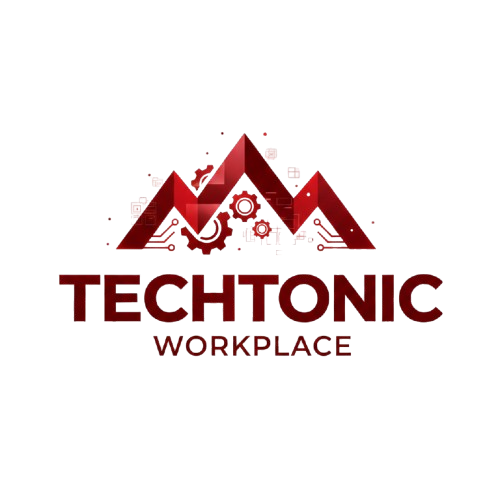
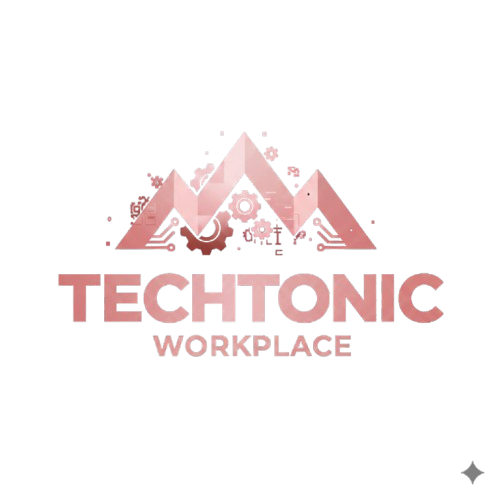
adding rose theme in the project

Changed region(s): [[0.12, 0.54, 0.9, 0.72], [0.21, 0.27, 0.75, 0.51], [0.93, 0.93, 0.96, 0.96]]

diff --git a/src/styles/globals.css b/src/styles/globals.css
@@ -57,31 +57,31 @@
   --card-foreground: oklch(0.145 0 0);
   --popover: oklch(1 0 0);
   --popover-foreground: oklch(0.145 0 0);
-  --primary: oklch(0.205 0 0);
+  --primary: oklch(0.55 0.18 350);
   --primary-foreground: oklch(0.985 0 0);
   --secondary: oklch(0.97 0 0);
   --secondary-foreground: oklch(0.205 0 0);
   --muted: oklch(0.97 0 0);
   --muted-foreground: oklch(0.556 0 0);
-  --accent: oklch(0.97 0 0);
-  --accent-foreground: oklch(0.205 0 0);
+  --accent: oklch(0.95 0.03 350);
+  --accent-foreground: oklch(0.55 0.18 350);
   --destructive: oklch(0.577 0.245 27.325);
   --border: oklch(0.922 0 0);
   --input: oklch(0.922 0 0);
-  --ring: oklch(0.708 0 0);
-  --chart-1: oklch(0.646 0.222 41.116);
-  --chart-2: oklch(0.6 0.118 184.704);
-  --chart-3: oklch(0.398 0.07 227.392);
-  --chart-4: oklch(0.828 0.189 84.429);
-  --chart-5: oklch(0.769 0.188 70.08);
+  --ring: oklch(0.55 0.18 350);
+  --chart-1: oklch(0.646 0.222 350);
+  --chart-2: oklch(0.6 0.15 340);
+  --chart-3: oklch(0.7 0.12 10);
+  --chart-4: oklch(0.65 0.18 360);
+  --chart-5: oklch(0.72 0.15 320);
   --sidebar: oklch(0.985 0 0);
   --sidebar-foreground: oklch(0.145 0 0);
-  --sidebar-primary: oklch(0.205 0 0);
+  --sidebar-primary: oklch(0.55 0.18 350);
   --sidebar-primary-foreground: oklch(0.985 0 0);
-  --sidebar-accent: oklch(0.97 0 0);
-  --sidebar-accent-foreground: oklch(0.205 0 0);
+  --sidebar-accent: oklch(0.95 0.03 350);
+  --sidebar-accent-foreground: oklch(0.55 0.18 350);
   --sidebar-border: oklch(0.922 0 0);
-  --sidebar-ring: oklch(0.708 0 0);
+  --sidebar-ring: oklch(0.55 0.18 350);
 }
 
 .dark {
@@ -91,31 +91,31 @@
   --card-foreground: oklch(0.985 0 0);
   --popover: oklch(0.205 0 0);
   --popover-foreground: oklch(0.985 0 0);
-  --primary: oklch(0.922 0 0);
-  --primary-foreground: oklch(0.205 0 0);
+  --primary: oklch(0.65 0.18 350);
+  --primary-foreground: oklch(0.145 0 0);
   --secondary: oklch(0.269 0 0);
   --secondary-foreground: oklch(0.985 0 0);
   --muted: oklch(0.269 0 0);
   --muted-foreground: oklch(0.708 0 0);
-  --accent: oklch(0.269 0 0);
-  --accent-foreground: oklch(0.985 0 0);
+  --accent: oklch(0.3 0.05 350);
+  --accent-foreground: oklch(0.65 0.18 350);
   --destructive: oklch(0.704 0.191 22.216);
   --border: oklch(1 0 0 / 10%);
   --input: oklch(1 0 0 / 15%);
-  --ring: oklch(0.556 0 0);
-  --chart-1: oklch(0.488 0.243 264.376);
-  --chart-2: oklch(0.696 0.17 162.48);
-  --chart-3: oklch(0.769 0.188 70.08);
-  --chart-4: oklch(0.627 0.265 303.9);
-  --chart-5: oklch(0.645 0.246 16.439);
+  --ring: oklch(0.65 0.18 350);
+  --chart-1: oklch(0.6 0.2 350);
+  --chart-2: oklch(0.65 0.18 340);
+  --chart-3: oklch(0.7 0.15 10);
+  --chart-4: oklch(0.68 0.19 360);
+  --chart-5: oklch(0.72 0.16 320);
   --sidebar: oklch(0.205 0 0);
   --sidebar-foreground: oklch(0.985 0 0);
-  --sidebar-primary: oklch(0.488 0.243 264.376);
+  --sidebar-primary: oklch(0.65 0.18 350);
   --sidebar-primary-foreground: oklch(0.985 0 0);
-  --sidebar-accent: oklch(0.269 0 0);
-  --sidebar-accent-foreground: oklch(0.985 0 0);
+  --sidebar-accent: oklch(0.3 0.05 350);
+  --sidebar-accent-foreground: oklch(0.65 0.18 350);
   --sidebar-border: oklch(1 0 0 / 10%);
-  --sidebar-ring: oklch(0.556 0 0);
+  --sidebar-ring: oklch(0.65 0.18 350);
 }
 
 @layer base {

diff --git a/src/app/(protected)/app-sidebar.tsx b/src/app/(protected)/app-sidebar.tsx
@@ -110,6 +110,8 @@ export function AppSidebar(){
                         })}
                         <div className="h-2"></div>
                         
+
+                        {open &&(
                         <SidebarMenuItem>
                             <Link href='/create'>
                             <Button size='sm' variant={'outline'} className="w-fit">
@@ -118,6 +120,7 @@ export function AppSidebar(){
                             </Button>
                             </Link>
                         </SidebarMenuItem>
+                        )}
                     </SidebarMenu>
                 </SidebarGroupContent>
             </SidebarGroup>
